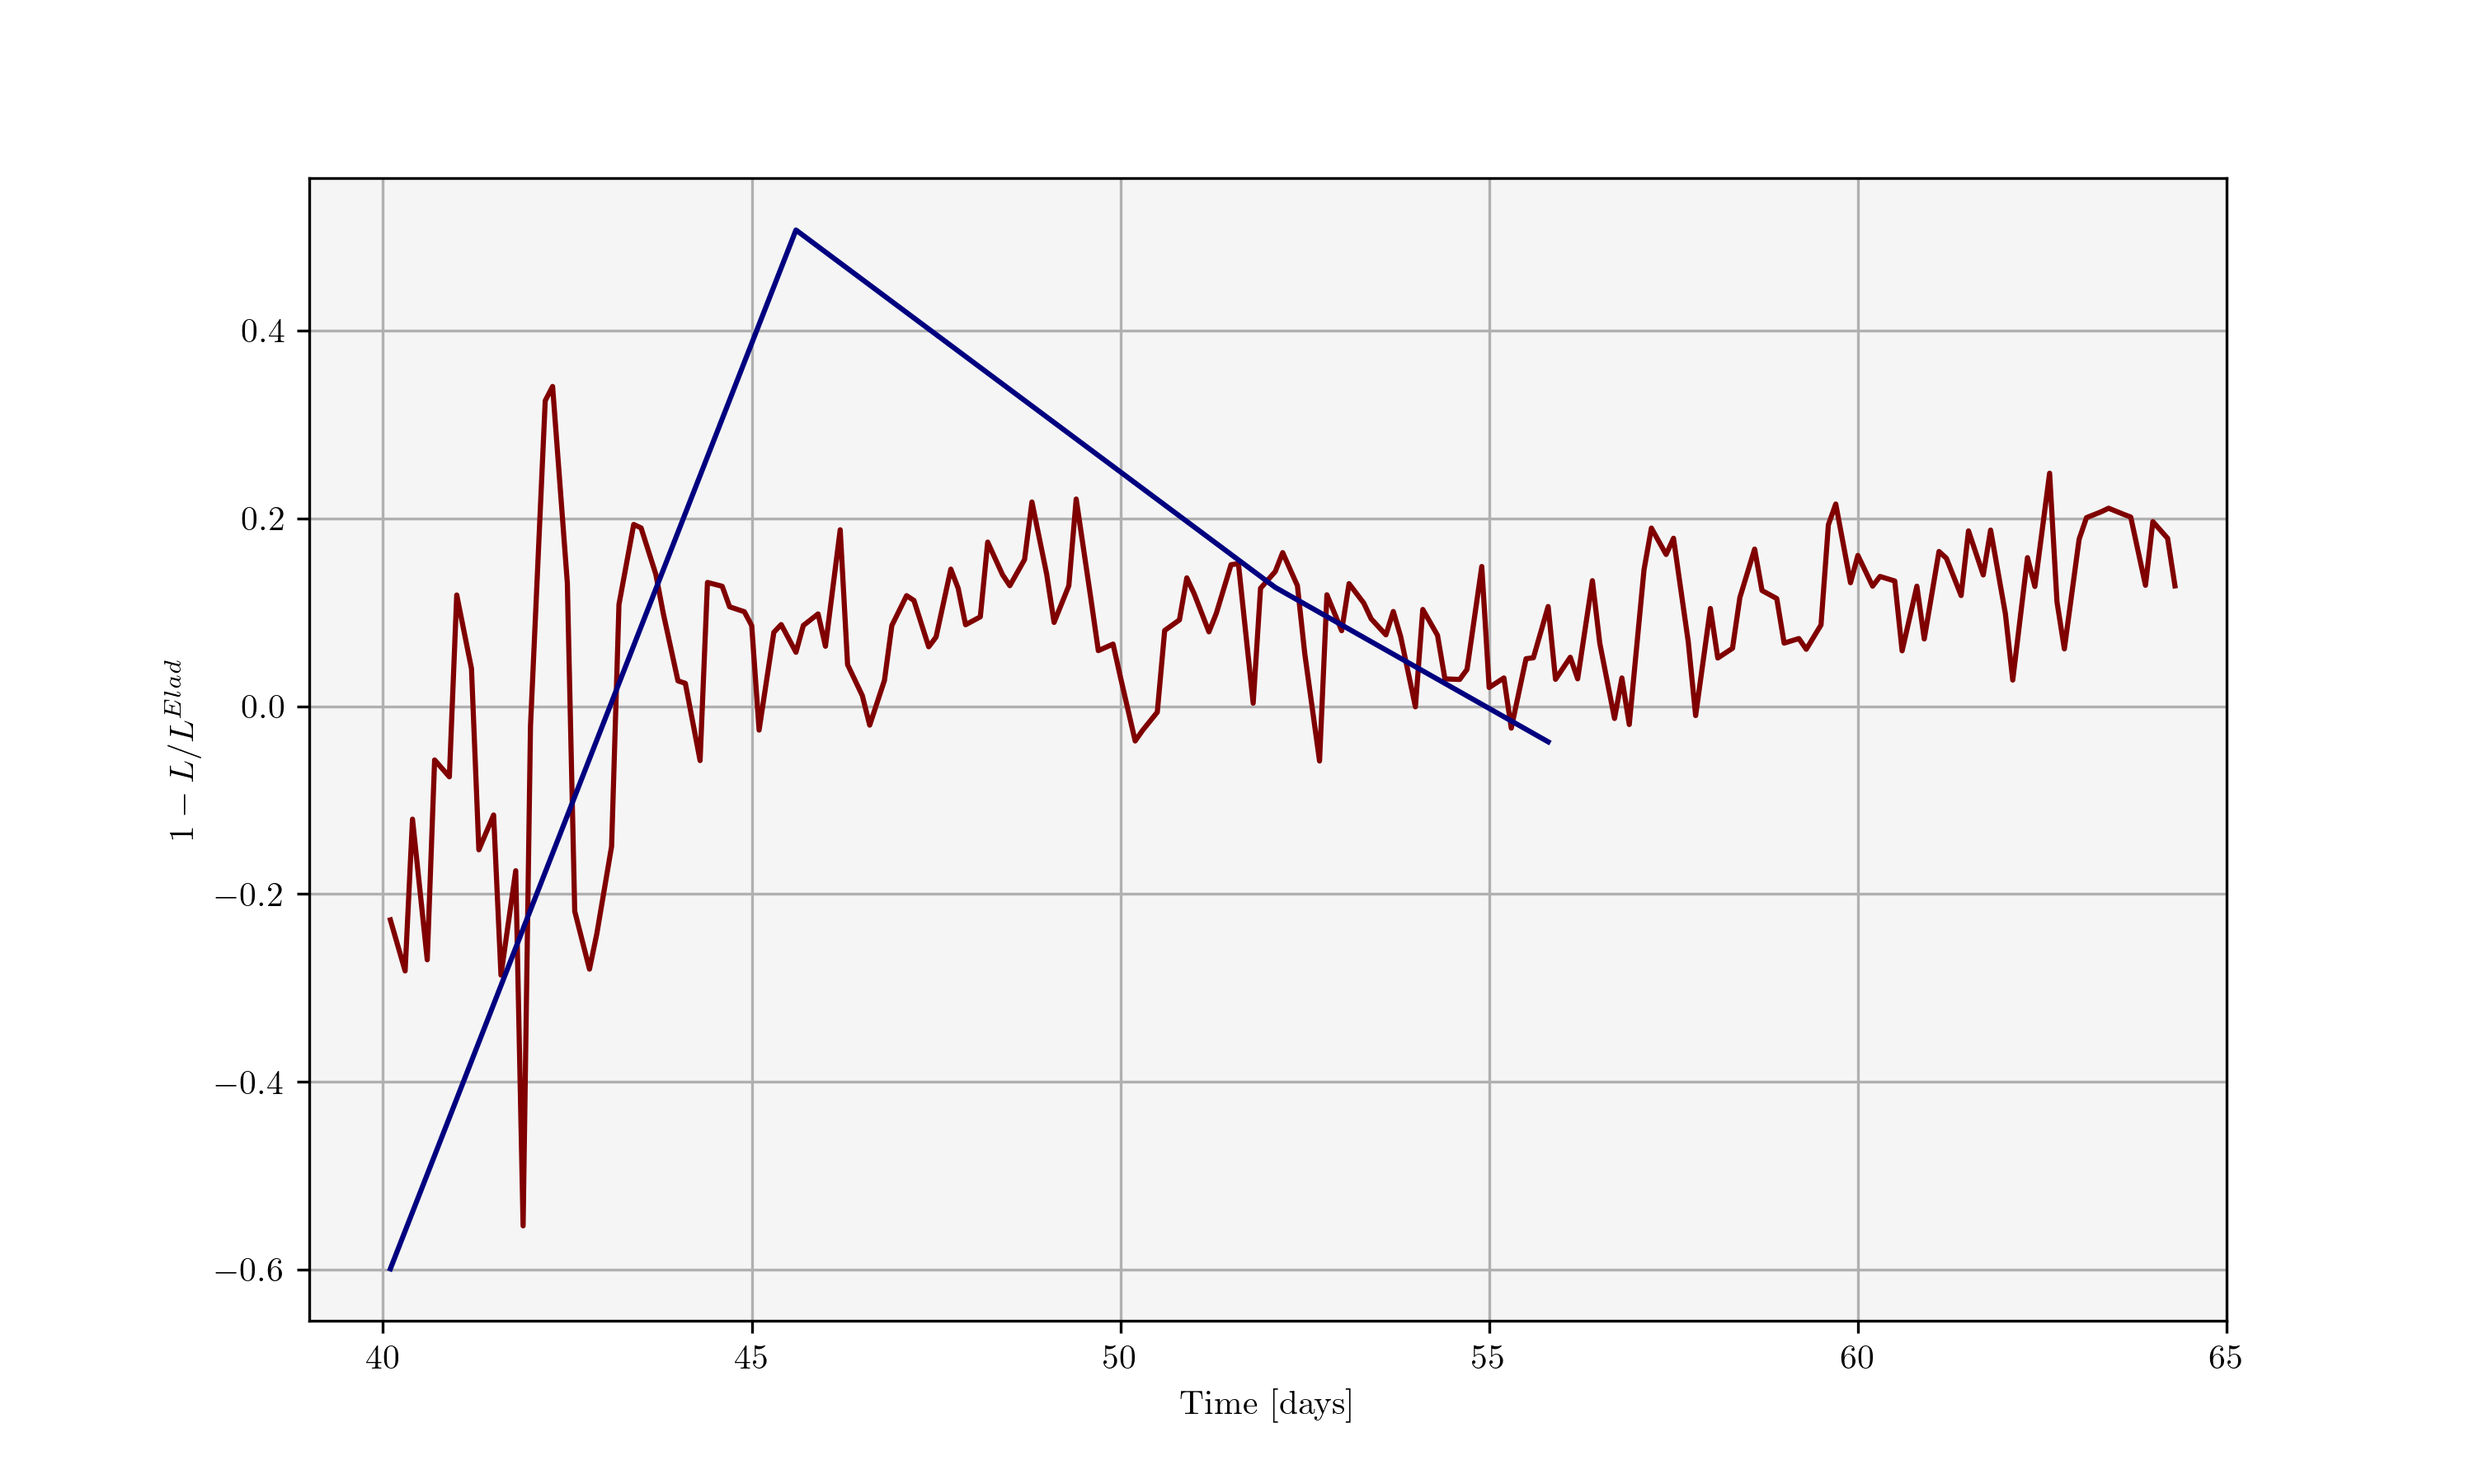
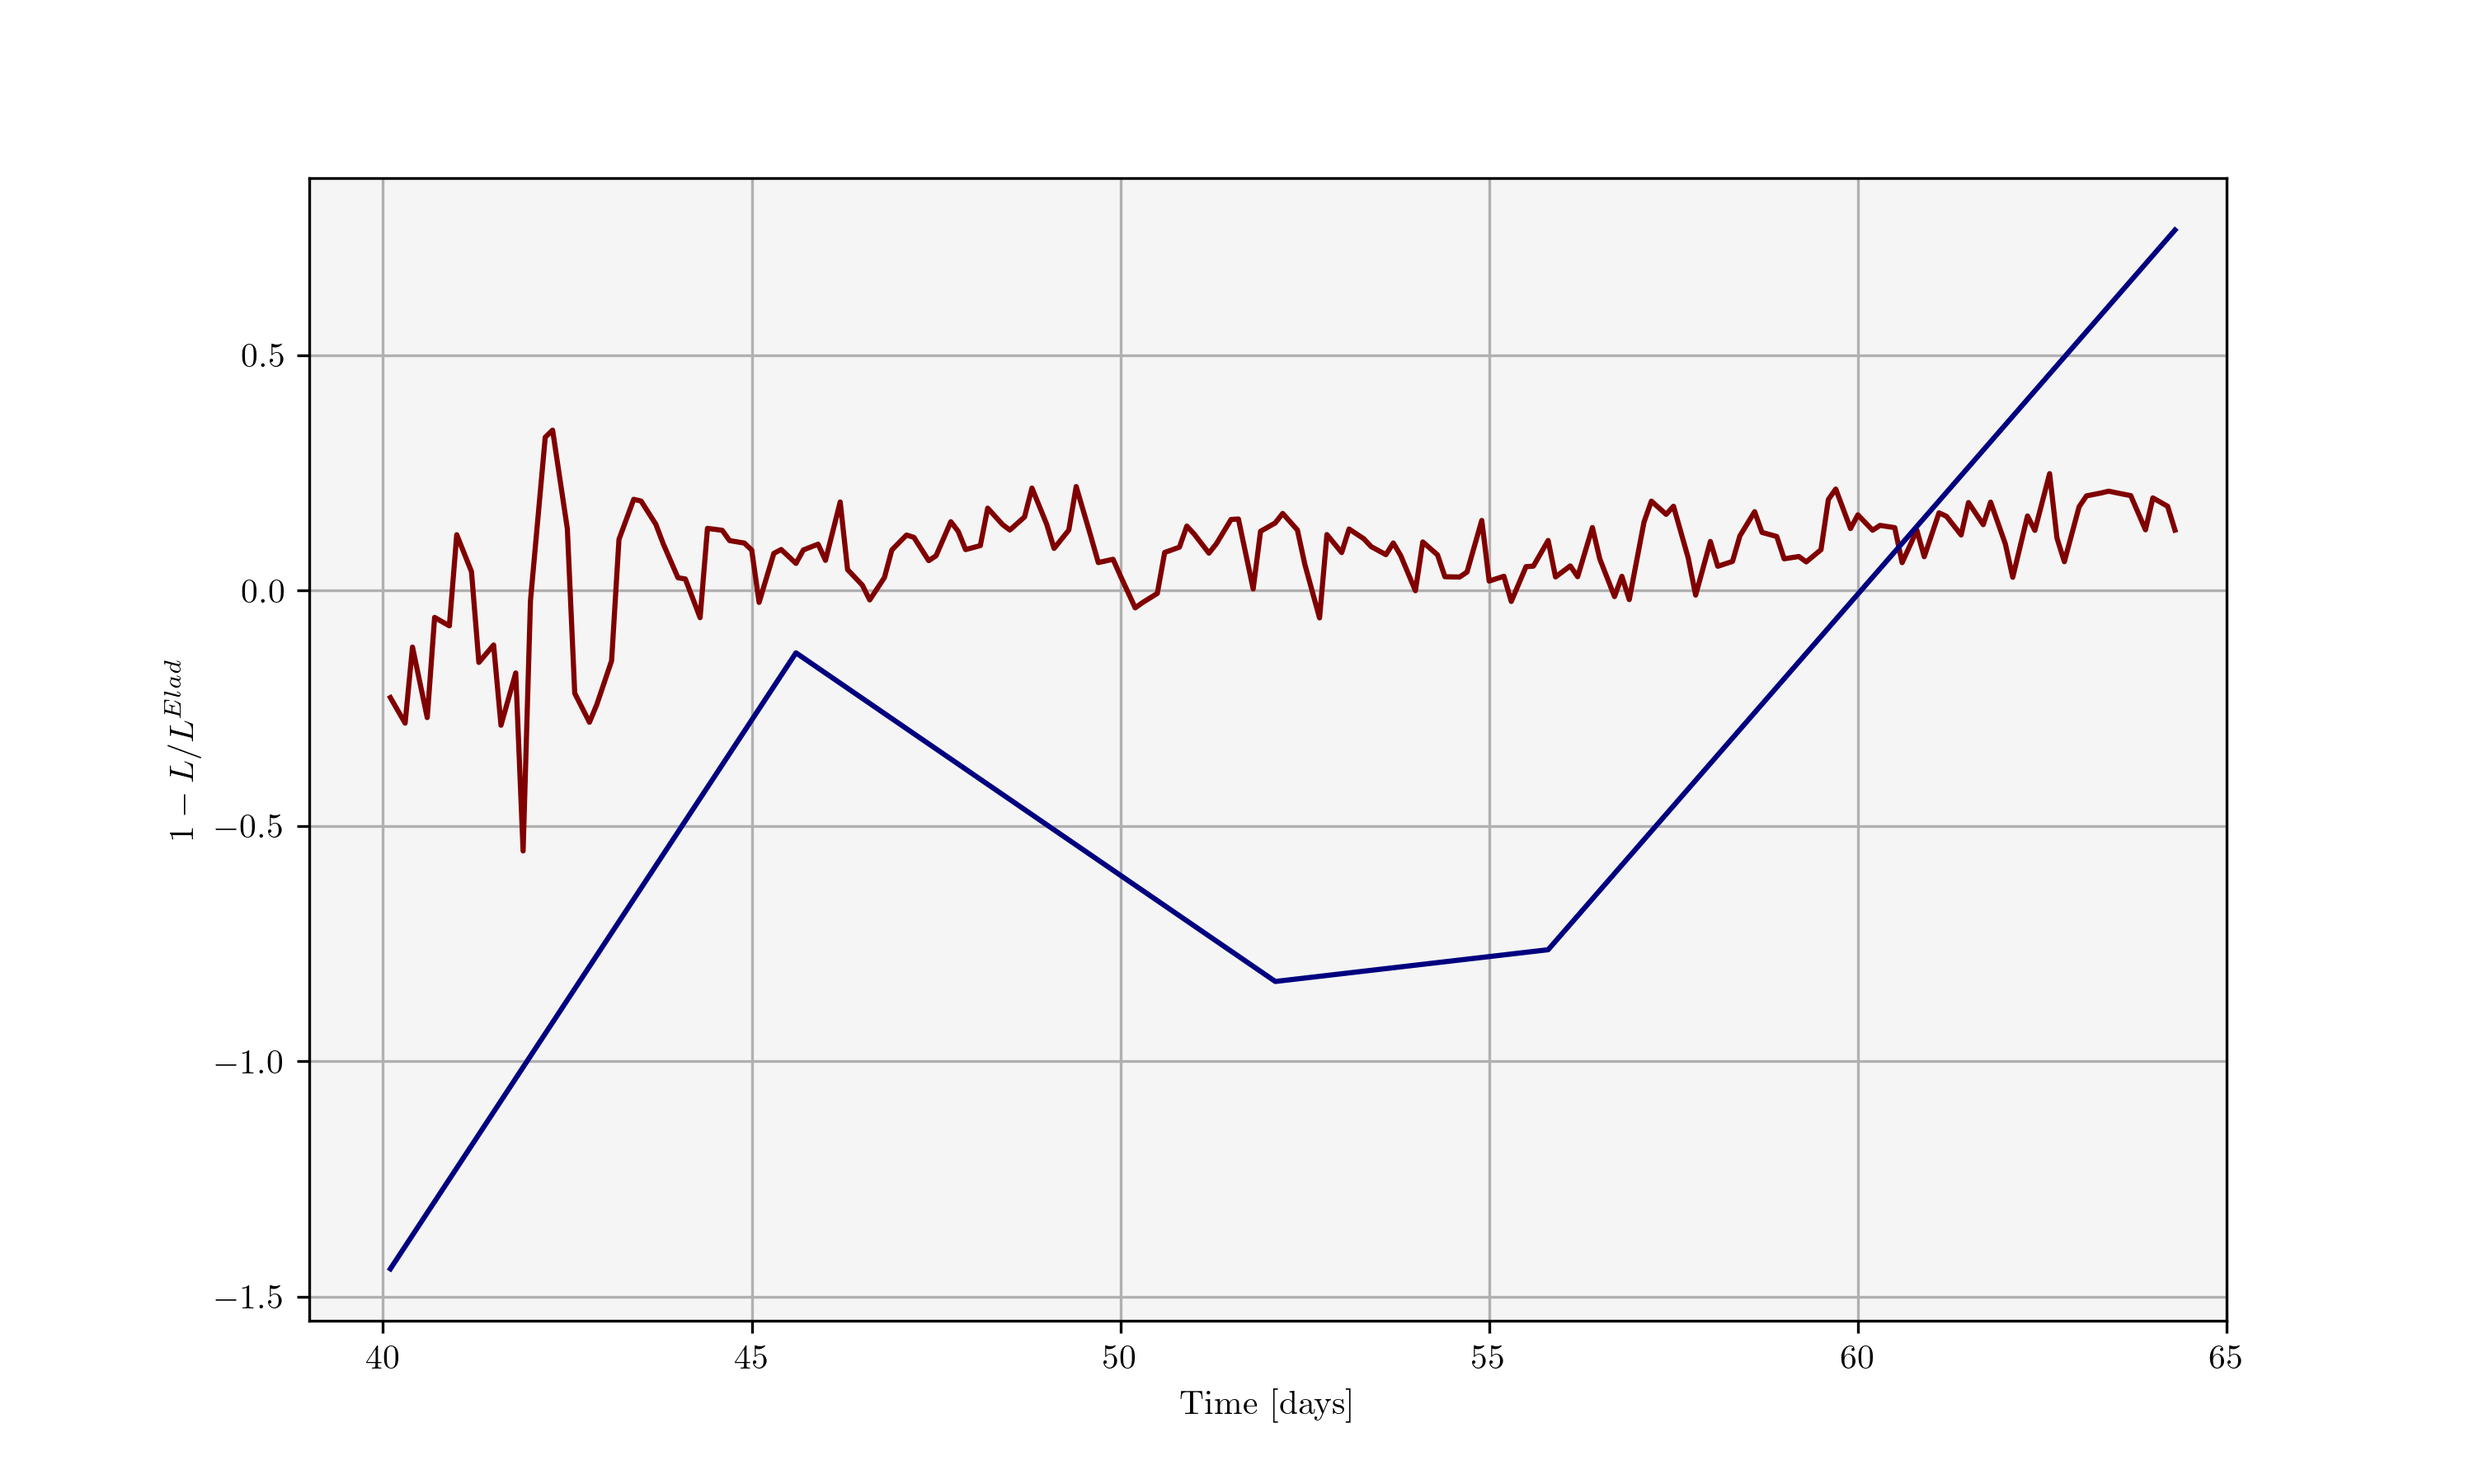
setting for all spectra in 881 on alice

diff --git a/src/Luminosity/spectra.py b/src/Luminosity/spectra.py
@@ -109,7 +109,6 @@ def normalisation(L_x: np.array, x_array: np.array, luminosity_fld: float) -> fl
 
 # MAIN
 if __name__ == "__main__":
-    plot = True
     save = True
     snap = 881
 
@@ -119,8 +118,8 @@ if __name__ == "__main__":
     num = 1000
 
     # Choose the observers: theta in [0, pi], phi in [0,2pi]
-    wanted_thetas = [np.pi/2, np.pi/2, np.pi/2, np.pi/2, np.pi, 0] # x, -x, y, -y, z, -z
-    wanted_phis = [0, np.pi, np.pi/2, 3*np.pi/2, 0, 0]
+    # wanted_thetas = [np.pi/2, np.pi/2, np.pi/2, np.pi/2, np.pi, 0] # x, -x, y, -y, z, -z
+    # wanted_phis = [0, np.pi, np.pi/2, 3*np.pi/2, 0, 0]
 
     # Choose freq range
     n_min = 2.08e13
@@ -130,16 +129,23 @@ if __name__ == "__main__":
     
     # Save frequency range
     if save:
-        with open('data/blue/spectrafreq_m'+ str(m) + '.txt', 'w') as f:
-            f.write('# exponents x of frequencies: n = 10^x  \n')
-            f.write(' '.join(map(str, x_arr)) + '\n') 
-            f.close()
+        if alice:
+            pre_saving = '/home/s3745597/data1/TDE/tde_comparison/data/'
+            with open(f'{pre_saving}spectrafreq_m{m}.txt', 'w') as f:
+                f.write('# exponents x of frequencies: n = 10^x  \n')
+                f.write(' '.join(map(str, x_arr)) + '\n') 
+                f.close()
+        else:
+            with open('data/blue/spectrafreq_m'+ str(m) + '.txt', 'w') as f:
+                f.write('# exponents x of frequencies: n = 10^x  \n')
+                f.write(' '.join(map(str, x_arr)) + '\n') 
+                f.close()
     
     now = datetime.now()
     now = now.strftime("%d/%m/%Y %H:%M:%S")
     n_arr = 10**x_arr
 
-    snapshots, days = select_snap(m, check)
+    # snapshots, days = select_snap(m, check)
     
     #%% Get thermalisation radius
     tree_indexes, observers, rays_T, rays_den, _, radii, _ = ray_maker(snap, m, check, num)
@@ -149,11 +155,14 @@ if __name__ == "__main__":
         thetas[iobs] = observers[iobs][0]
         phis[iobs] =  observers[iobs][1]
 
+    wanted_thetas = thetas 
+    wanted_phis = phis
+
     for idx in range(len(wanted_thetas)):
         wanted_theta = wanted_thetas[idx]
         wanted_phi = wanted_phis[idx]
         wanted_index = select_observer(wanted_theta, wanted_phi, thetas, phis)
-        print('index ',wanted_index)
+        # print('index ',wanted_index)
 
         xyz_selected = find_sph_coord(thetas[wanted_index], phis[wanted_index])
 
@@ -166,7 +175,7 @@ if __name__ == "__main__":
             if dot_product[iobs] < 0:
                 dot_product[iobs] = 0
                 zero_count += 1
-        print('cross dot 0: ', zero_count)
+        # print('cross dot 0: ', zero_count)
 
         _, rays_cumulative_taus, _, _, _ = get_specialr(rays_T, rays_den, radii, tree_indexes, select = 'thermr')
 
@@ -181,37 +190,40 @@ if __name__ == "__main__":
         count_high = 0
         for j in range(len(rays_T)):
             print('ray :', j)
-            for i in range(len(rays_cumulative_taus[j])):        
-                # Temperature, Density and volume: np.array from near to the BH
-                # to far away. 
-                # Thus we will use negative index in the for loop.
-                # tau: np.array from outside to inside.
-                reverse_idx = -i -1
-                T = rays_T[j][reverse_idx]
-                rho = rays_den[j][reverse_idx] 
-                opt_depth = rays_cumulative_taus[j][i]
-                cell_vol = volume[reverse_idx]
-                
-                # Ensure we can interpolate
-                T_low = np.exp(8.666)
-                T_high = np.exp(17.87)
-                rho_low = np.exp(-49.2)
-                
-                # Out of table
-                if rho < rho_low:
-                    print('rho low')
-                    continue
-                
-                # Opaque
-                if T < T_low:
-                    print('T low')
-                    #continue    
-                    T = np.exp(8.7)
+            if dot_product[j] == 0:
+                continue
+            else:
+                for i in range(len(rays_cumulative_taus[j])):        
+                    # Temperature, Density and volume: np.array from near to the BH
+                    # to far away. 
+                    # Thus we will use negative index in the for loop.
+                    # tau: np.array from outside to inside.
+                    reverse_idx = -i -1
+                    T = rays_T[j][reverse_idx]
+                    rho = rays_den[j][reverse_idx] 
+                    opt_depth = rays_cumulative_taus[j][i]
+                    cell_vol = volume[reverse_idx]
+                    
+                    # Ensure we can interpolate
+                    T_low = np.exp(8.666)
+                    T_high = np.exp(17.87)
+                    rho_low = np.exp(-49.2)
+                    
+                    # Out of table
+                    if rho < rho_low:
+                        print('rho low')
+                        continue
+                    
+                    # Opaque
+                    if T < T_low:
+                        print('T low')
+                        #continue    
+                        T = np.exp(8.7)
 
-                for i, n in enumerate(n_arr): #we need linearspace
-                    lum_n_cell = luminosity_n(T, rho, opt_depth, cell_vol, n)
-                    lum_n_cell *= dot_product[j]
-                    lum_n[i] += lum_n_cell
+                    for i, n in enumerate(n_arr): #we need linearspace
+                        lum_n_cell = luminosity_n(T, rho, opt_depth, cell_vol, n)
+                        lum_n_cell *= dot_product[j]
+                        lum_n[i] += lum_n_cell
 
         const_norm_avg = 4/192
         lum_tilde_n = lum_n * const_norm_avg
@@ -224,25 +236,16 @@ if __name__ == "__main__":
 
         # Save data and plot
         if save:
-            with open(f'data/blue/nLn_single_m{m}_{snap}.txt', 'a') as fselect:
-                fselect.write(f'#snap {snap} L_tilde_n (theta, phi) = ({np.round(wanted_theta,4)},{np.round(wanted_phi,4)}) \n')
-                fselect.write(' '.join(map(str, lum_tilde_n)) + '\n')
-                fselect.close()
+            if alice:
+                pre_saving = '/home/s3745597/data1/TDE/tde_comparison/data/'
+                with open(f'{pre_saving}nLn_single_m{m}_{snap}_all.txt', 'a') as fselect:
+                        fselect.write(f'#snap {snap} L_tilde_n (theta, phi) = ({np.round(wanted_theta,4)},{np.round(wanted_phi,4)}) \n')
+                        fselect.write(' '.join(map(str, lum_tilde_n)) + '\n')
+                        fselect.close()
+            else:
+                with open(f'data/blue/nLn_single_m{m}_{snap}_all.txt', 'a') as fselect:
+                    fselect.write(f'#snap {snap} L_tilde_n (theta, phi) = ({np.round(wanted_theta,4)},{np.round(wanted_phi,4)}) \n')
+                    fselect.write(' '.join(map(str, lum_tilde_n)) + '\n')
+                    fselect.close()
 
-        # if plot:
-        #     fig, ax1 = plt.subplots( figsize = (6,6) )
-        #     ax1.plot(n_arr, n_arr * lum_tilde_n)
-        #     ax2 = ax1.twiny()
-        #     ax1.set_xlabel(r'$log_{10}\nu$ [Hz]')
-        #     ax1.set_ylabel(r'$log_{10}(\nu\tilde{L}_\nu)$ [erg/s]')
-        #     ax1.set_ylim(1e39, 2e44)
-        #     ax1.loglog()
-        #     ax1.grid()
-        #     wavelength = np.divide(c, n_arr) * 1e8 # A
-        #     ax2.plot(wavelength, n_arr * lum_tilde_n)
-        #     ax2.invert_xaxis()
-        #     ax2.loglog()
-        #     ax2.set_xlabel(r'Wavelength [\AA]')
-            # plt.savefig(f'Figs/n_Ltildan_m{m}_snap{snap}')
-            # plt.show()
-                        
+    

diff --git a/src/Calculators/select_observers.py b/src/Calculators/select_observers.py
@@ -26,16 +26,11 @@ def find_sph_coord(theta,phi):
     #xyz = [x, y, z]
     return x,y,z
 
-def select_observer(wanted_theta, wanted_phi, observers):
+def select_observer(wanted_theta, wanted_phi, thetas, phis):
     """ Gives thetas, phis from helpix and 
     the index of the points closer to the one given by (wanted_theta, wanted_phi)"""
     dist = np.zeros(192)
-    thetas = np.zeros(192)
-    phis = np.zeros(192)
-
-    for i in range(len(observers)): 
-        thetas[i] = observers[i][0]
-        phis[i] =  observers[i][1]
+    for i in range(len(thetas)): 
         delta_theta = wanted_theta -  thetas[i]
         delta_phi = wanted_phi -  phis[i]
         # Haversine formula
@@ -113,7 +108,7 @@ if __name__ == '__main__':
     for idx in range(len(wanted_thetas)):
         wanted_theta = wanted_thetas[idx]
         wanted_phi = wanted_phis[idx]
-        wanted_index = select_observer(wanted_theta, wanted_phi, observers)
+        wanted_index = select_observer(wanted_theta, wanted_phi, thetas, phis)
         x_selected[idx], y_selected[idx], z_selected[idx] = find_sph_coord(thetas[wanted_index], phis[wanted_index])
 
     print('X:' , x_selected)

diff --git a/src/Luminosity/fit.py b/src/Luminosity/fit.py
@@ -26,8 +26,8 @@ h = 6.62607015e-27 # [gcm^2/s]
 Kb = 1.380649e-16 #[gcm^2/s^2K]
 sigma = 5.67037e-5
 # ztf: 3.23e14 - 6.71e14 // swift: 6.34e14 - 1.88e15
-freq_min = 3.23e14 
-freq_max = 1.88e15
+freq_min = 1e15
+freq_max = 1e18
 
 
 ##
@@ -56,7 +56,7 @@ if __name__ == '__main__':
 
     freqs = np.power(10, x)
     init_R = 1e12
-    init_T = 3e6
+    init_T = 3e7
     
     freq_min_idx = np.argmin( np.abs(freqs - freq_min))
     freq_max_idx = np.argmin( np.abs(freqs - freq_max))
